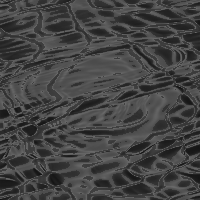
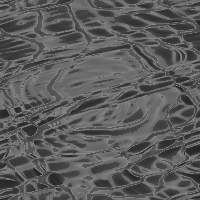
feat: Blankタイル追加 + タイル枠発光簡素化 + 地形変化down_stateバグ修正
- Blankタイル: 4色放射グラデーションのテクスチャ追加、MultiMeshに登録
- neutral.png: 明度を少し上げて視認性向上
- タイル枠発光: ダウン/未所有=発光なし、アクティブ=プレイヤー色で常時発光（点滅廃止）
  → 所有タイル分の `_process` 稼働を削減してCPU負荷軽減
- 地形変化時のdown_stateコピーバグ修正（メソッドを値参照 → プロパティ参照）
- docs/design/land_system.md 更新（v1.9）

diff --git a/docs/design/land_system.md b/docs/design/land_system.md
@@ -180,14 +180,14 @@ if tile.has_method("set_down_state"):
 
 | 状態 | 枠の表示 |
 |------|----------|
-| 未所有 | 元の黒い枠（変化なし） |
-| 所有中（ダウン状態） | プレイヤー色で常時点灯 |
-| 所有中（アクティブ） | グレー⇔プレイヤー色で滑らかに点滅（周期2.5秒） |
+| 未所有 | 黒い枠・発光なし |
+| 所有中（ダウン状態） | 黒い枠・発光なし |
+| 所有中（アクティブ） | プレイヤー色・常時発光（点滅なし） |
 
 **実装詳細**:
-- 点滅はsin波で滑らかにフェード（急な切り替えではない）
-- 発光の強さは控えめに設定（emission_energy_multiplier: 0.3〜1.0）
-- マテリアルの切り替えではなく、色の補間で実現
+- アクティブ中のみ emission_enabled = true（emission_energy_multiplier = 1.0 固定）
+- 点滅は廃止（`_process` 常時稼働を無くし、所有タイル分のCPU負荷を削減）
+- 到着予測ハイライト（黄色点滅）のみ `_process` で動作
 
 ### デバッグコマンド
 - **Uキー**: 現在プレイヤーの全土地のダウン状態を即座に解除
@@ -722,6 +722,7 @@ func execute_for_cpu(command: Dictionary) -> bool
 | 2025/12/16 | 1.6 | タイル到着時の動作を追加: 自分の土地・特殊タイルでの召喚不可動作を明記 |
 | 2026/01/26 | 1.7 | ダウン状態のビジュアル表示を追加: 枠の色による状態表示（点滅/常時点灯） |
 | 2026/02/12 | 1.8 | ナビゲーション設定メソッド追加、CPU用インターフェース追加、ファイル名修正（dominio_order_handler → dominio_command_handler） |
+| 2026/04/15 | 1.9 | ビジュアル仕様変更: ダウン=発光なし/アクティブ=常時発光（点滅廃止）。所有タイルの `_process` 削減でCPU負荷軽減 |
 
 ---
 
